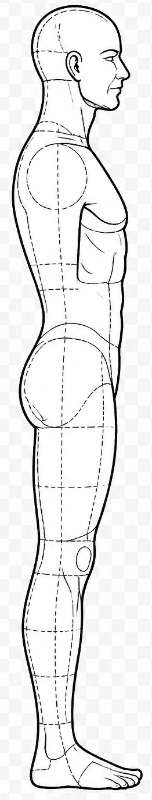
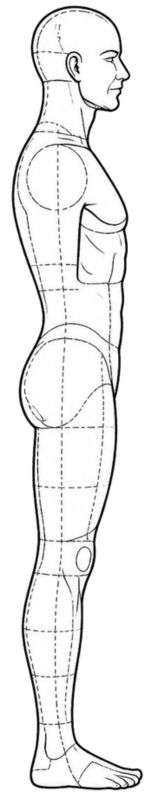
v269: glow azul nas bordas dos cards ao cruzar topo + lateral H novas
Cards (Cd_): IntersectionObserver detecta quando o topo do card cruza a
faixa superior da viewport (logo abaixo do header fixo). Aplica:
- Borda externa azul iOS de 2px (rgba(10,132,255,0.45))
- Glow externo difuso de 30px (rgba(10,132,255,0.55))
- Sombra azul de 6px com profundidade
- Transform scale(1.005) sutil
- Ícone do card: scale(1.12) + drop-shadow azul
Tudo com transition 0.3-0.4s ease — efeito suave ao rolar.

rootMargin "-90px 0px -85% 0px": ignora os primeiros 90px (header fixo)
e os 85% inferiores, deixando só uma faixa de ~15% no topo da viewport
como zona ativa do glow.

Imagens H lateral D e E substituídas pelas novas em pe-d/e do download
(pasta imagens). MD5 confirmado diferente.

diff --git a/src/App.jsx b/src/App.jsx
@@ -53,7 +53,7 @@ import html2pdf from "html2pdf.js";
 import JSZip from "jszip"; // v241: reintroduzido — saveCroquiDocx ainda usa (migração para fflate fica para a v242)
 import { zip as fflateZip, strToU8, unzipSync, strFromU8 } from "fflate";
 import DOMPurify from "dompurify"; // v242: sanitização extra antes do dangerouslySetInnerHTML do pdf-preview
-const APP_VERSION="v268-Xandroid";
+const APP_VERSION="v269-Xandroid";
 // v221+: storage migrado para IndexedDB. Não há mais cap de tamanho — o app
 // usa a quota real do dispositivo, lida em runtime via navigator.storage.estimate().
 // O valor abaixo é apenas um PLACEHOLDER inicial para o medidor de UI antes da
@@ -328,13 +328,19 @@ const BurstModal=React.memo(function BurstModal({rk,onClose,onConfirm,utils}){
     </div>
   </div>);
 });
-const Cd_=({title,icon,children,styles:st,variant})=>{const isPink=st.accentMode==="pink";const vColors=isPink?{danger:"#ff3b6e",warning:"#ff7a30",info:"#b54d8e",success:"#3fb56b",primary:"#d6336c",teal:"#c73086",slate:"#8a5a72"}:{danger:"#ff3b30",warning:"#ff9500",info:"#5856d6",success:"#34c759",primary:"#007aff",teal:"#30b0c7",slate:"#636e72"};const accent=variant&&vColors[variant]?vColors[variant]:null;const iconKey=(icon||"").trim();const hasSvg=iconKey&&APP_ICONS&&APP_ICONS[iconKey];// Gradiente sutil: do topo (+claro) pro fundo (ligeiramente mais escuro).
-// Em dark mode: #1c1c1e → #242428 (elevação sutil). Em light: #ffffff → #fafbfc.
+const Cd_=({title,icon,children,styles:st,variant})=>{const isPink=st.accentMode==="pink";const vColors=isPink?{danger:"#ff3b6e",warning:"#ff7a30",info:"#b54d8e",success:"#3fb56b",primary:"#d6336c",teal:"#c73086",slate:"#8a5a72"}:{danger:"#ff3b30",warning:"#ff9500",info:"#5856d6",success:"#34c759",primary:"#007aff",teal:"#30b0c7",slate:"#636e72"};const accent=variant&&vColors[variant]?vColors[variant]:null;const iconKey=(icon||"").trim();const hasSvg=iconKey&&APP_ICONS&&APP_ICONS[iconKey];
+// v269: detecta quando o card está perto do topo da viewport para aplicar glow azul iOS
+const cardRef=React.useRef(null);const[topGlow,setTopGlow]=React.useState(false);
+React.useEffect(()=>{const el=cardRef.current;if(!el||typeof IntersectionObserver==="undefined")return;
+// rootMargin negativo no topo (-90px header) e bottom (-85% deixa só ~15% sup da viewport ativa)
+const obs=new IntersectionObserver(entries=>{setTopGlow(entries[0].isIntersecting);},{rootMargin:"-90px 0px -85% 0px",threshold:0});
+obs.observe(el);return()=>obs.disconnect();},[]);
 const bgGradient=st.dark?"linear-gradient(180deg,#1f1f22 0%,#141416 100%)":"linear-gradient(180deg,#ffffff 0%,#fafbfc 100%)";
-// Sombra normal + glow colorido quando há variant
 const baseShadow=st.dark?"0 2px 8px rgba(0,0,0,0.5),0 0 0 0.5px rgba(255,255,255,0.06),inset 0 1px 0 rgba(255,255,255,0.05)":"0 1px 3px rgba(0,0,0,0.06),0 0 0 0.5px rgba(0,0,0,0.04),0 4px 14px rgba(0,0,0,0.04)";
 const glowShadow=accent?`${baseShadow},0 0 16px ${accent}22,-2px 0 10px ${accent}18`:baseShadow;
-return(<div className="ios-card" style={{background:bgGradient,borderRadius:18,marginBottom:14,overflow:"hidden",boxShadow:glowShadow,position:"relative",transition:"box-shadow 0.3s ease"}}>{accent&&<div style={{position:"absolute",top:0,left:0,bottom:0,width:5,background:`linear-gradient(180deg,${accent} 0%,${accent}aa 50%,${accent}66 100%)`,borderTopLeftRadius:18,borderBottomLeftRadius:18,boxShadow:`0 0 8px ${accent}55`}}/>}<div style={{padding:"16px 20px 10px 22px",display:"flex",alignItems:"center",gap:10}}>{icon&&(hasSvg?<AppIcon name={iconKey} size={30} mr={0}/>:<span style={{fontSize:22,lineHeight:1}}>{icon}</span>)}<span style={{fontSize:19,fontWeight:800,color:st.tx,letterSpacing:-0.4,lineHeight:1.15}}>{title}</span></div><div style={{padding:"0 20px 18px 22px"}}>{children}</div></div>);};
+// Glow azul iOS sobreposto quando card cruza a faixa superior da viewport
+const topGlowShadow=topGlow?`${glowShadow},0 0 0 2px rgba(10,132,255,0.45),0 0 30px rgba(10,132,255,0.55),0 6px 24px rgba(10,132,255,0.35)`:glowShadow;
+return(<div ref={cardRef} className={"ios-card"+(topGlow?" ios-card-near-top":"")} style={{background:bgGradient,borderRadius:18,marginBottom:14,overflow:"hidden",boxShadow:topGlowShadow,position:"relative",transition:"box-shadow 0.4s ease,transform 0.3s ease",transform:topGlow?"scale(1.005)":"scale(1)"}}>{accent&&<div style={{position:"absolute",top:0,left:0,bottom:0,width:5,background:`linear-gradient(180deg,${accent} 0%,${accent}aa 50%,${accent}66 100%)`,borderTopLeftRadius:18,borderBottomLeftRadius:18,boxShadow:`0 0 8px ${accent}55`}}/>}<div style={{padding:"16px 20px 10px 22px",display:"flex",alignItems:"center",gap:10}}>{icon&&(hasSvg?<span style={{display:"inline-flex",transition:"transform 0.3s ease",transform:topGlow?"scale(1.12)":"scale(1)",filter:topGlow?"drop-shadow(0 0 8px rgba(10,132,255,0.6))":"none"}}><AppIcon name={iconKey} size={30} mr={0}/></span>:<span style={{fontSize:22,lineHeight:1}}>{icon}</span>)}<span style={{fontSize:19,fontWeight:800,color:st.tx,letterSpacing:-0.4,lineHeight:1.15}}>{title}</span></div><div style={{padding:"0 20px 18px 22px"}}>{children}</div></div>);};
 // EmptyState ilustrativo (estilo iOS / Apple Health)
 const EmptyState=({icon,title,hint,accent="#007aff",dark:isDark})=>{const grad=`url(#emptyGrad-${accent.replace("#","")})`;return(<div style={{padding:"28px 20px",textAlign:"center",background:isDark?"linear-gradient(180deg,rgba(255,255,255,0.02) 0%,transparent 100%)":"linear-gradient(180deg,rgba(0,0,0,0.015) 0%,transparent 100%)",borderRadius:14,marginBottom:10,border:`1.5px dashed ${accent}33`}}><svg width="64" height="64" viewBox="0 0 64 64" style={{marginBottom:10,filter:`drop-shadow(0 2px 6px ${accent}30)`}}><defs><linearGradient id={`emptyGrad-${accent.replace("#","")}`} x1="0" y1="0" x2="0" y2="1"><stop offset="0%" stopColor={accent} stopOpacity="0.18"/><stop offset="100%" stopColor={accent} stopOpacity="0.04"/></linearGradient></defs><circle cx="32" cy="32" r="28" fill={grad} stroke={accent+"55"} strokeWidth="1.2"/><text x="32" y="42" textAnchor="middle" fontSize="28">{icon}</text></svg><div style={{fontSize:15,fontWeight:700,color:isDark?"#fff":"#000",letterSpacing:-0.3,marginBottom:4}}>{title}</div>{hint&&<div style={{fontSize:12,color:isDark?"#999":"#666",lineHeight:1.5}}>{hint}</div>}</div>);};
 // v267: estilo "pílula" — agora aceita props opcionais lx,ly para posicionar a label
